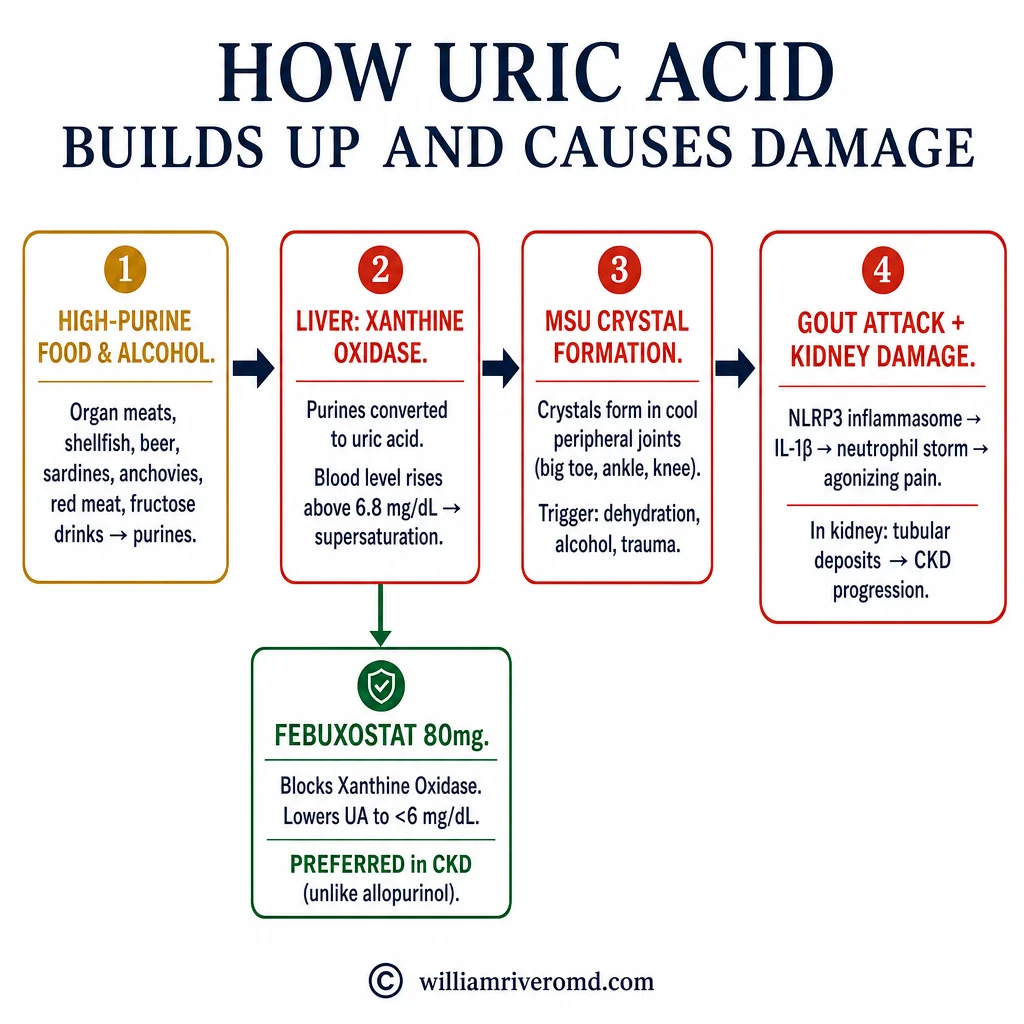
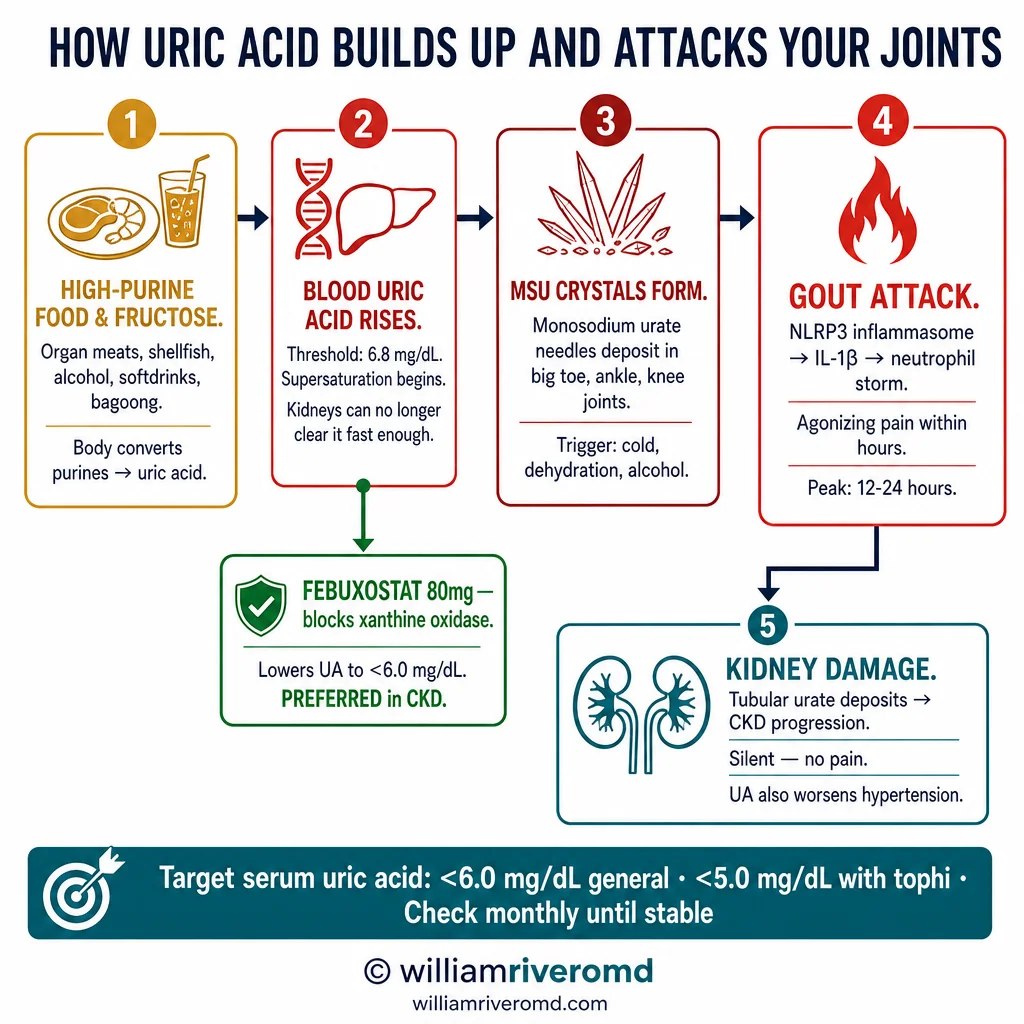
Gout guide: new title + improved uric-acid pathway infographic
- Title updated to "Gout — The Crystal Disease You Can Actually Conquer"
- h1, og:title, twitter:title all updated to match
- index.html card title updated
- gout-what-uric-acid.png/.webp: fresh GPT-Image-2 generation with
  clearer 5-step pathway (food → uric acid → crystal → attack → kidney
  damage) and febuxostat callout; better color hierarchy and labels

Changed region(s): [[0.0, 0.0, 1.0, 1.0]]

diff --git a/guides/gout-uric-acid.html b/guides/gout-uric-acid.html
@@ -3,18 +3,18 @@
 <head>
 <meta charset="UTF-8">
 <meta name="viewport" content="width=device-width, initial-scale=1.0">
-<title>Gout & Uric Acid — When Crystals Attack Your Joints · W. G. M. Rivero, MD</title>
+<title>Gout — The Crystal Disease You Can Actually Conquer · W. G. M. Rivero, MD</title>
 <meta name="description" content="Why <em>uric acid builds up</em>, how it damages joints and kidneys, which foods matter most — and how to prevent <em>painful flares</em> for good.">
 <link rel="canonical" href="https://williamriveromd.com/guides/gout-uric-acid.html">
 <meta property="og:type" content="article">
 <meta property="og:site_name" content="William Gregory M. Rivero, MD">
-<meta property="og:title" content="Gout &amp; Uric Acid — When Crystals Attack Your Joints">
+<meta property="og:title" content="Gout — The Crystal Disease You Can Actually Conquer">
 <meta property="og:description" content="Why <em>uric acid builds up</em>, how it damages joints and kidneys, which foods matter most — and how to prevent <em>painful flares</em> for good.">
 <meta property="og:url" content="https://williamriveromd.com/guides/gout-uric-acid.html">
 <meta property="og:image" content="https://williamriveromd.com/images/gout-hero.png">
 <meta property="og:locale" content="en_PH">
 <meta name="twitter:card" content="summary_large_image">
-<meta name="twitter:title" content="Gout &amp; Uric Acid — When Crystals Attack Your Joints">
+<meta name="twitter:title" content="Gout — The Crystal Disease You Can Actually Conquer">
 <meta name="twitter:description" content="Why <em>uric acid builds up</em>, how it damages joints and kidneys, which foods matter most — and how to prevent <em>painful flares</em> for good.">
 <meta name="twitter:image" content="https://williamriveromd.com/images/gout-hero.png">
 <link href="https://fonts.googleapis.com/css2?family=Lora:ital,wght@0,400;0,500;0,600;1,400&family=DM+Sans:wght@300;400;500;600&display=swap" rel="stylesheet">
@@ -533,7 +533,7 @@ body.dark .related-card-title {
 <section class="hero">
   <div class="container">
     <div class="hero-tag">Internal Medicine · Nephrology · Patient Guide</div>
-    <h1>Gout &amp; <em>Uric Acid</em> — When <em>Crystals Attack</em></h1>
+    <h1>Gout — The <em>Crystal Disease</em> You Can <em>Actually Conquer</em></h1>
     <p class="hero-sub">Why <em>uric acid builds up</em>, how it damages joints and kidneys, which foods matter most — and how to prevent <em>painful flares</em> for good.</p>
     <div class="hero-meta">
       <span><strong><span data-lang="en">Author</span><span data-lang="tl" class="lang-hidden">May-akda</span><span data-lang="ceb" class="lang-hidden">Awtor</span>:</strong> W. G. M. Rivero, MD, FPCP, DPSN</span>

diff --git a/guides/index.html b/guides/index.html
@@ -945,7 +945,7 @@
       <line x1="20" y1="34" x2="44" y2="34" stroke="white" stroke-width="1" opacity=".3"/>
     </svg></div>
     <span class="badge bm">Internal Medicine · Calculator</span>
-    <h2>Gout &amp; Uric Acid — When Crystals Attack Your Joints</h2>
+    <h2>Gout — The Crystal Disease You Can Actually Conquer</h2>
     <p>Why uric acid builds up in Filipinos, how crystals damage kidneys and joints, and why febuxostat is preferred over allopurinol in CKD.</p>
     <div class="card-footer"><span class="card-tags">Gout · Hyperuricemia · CKD</span><span class="card-link">Read →</span></div>
   </a>
